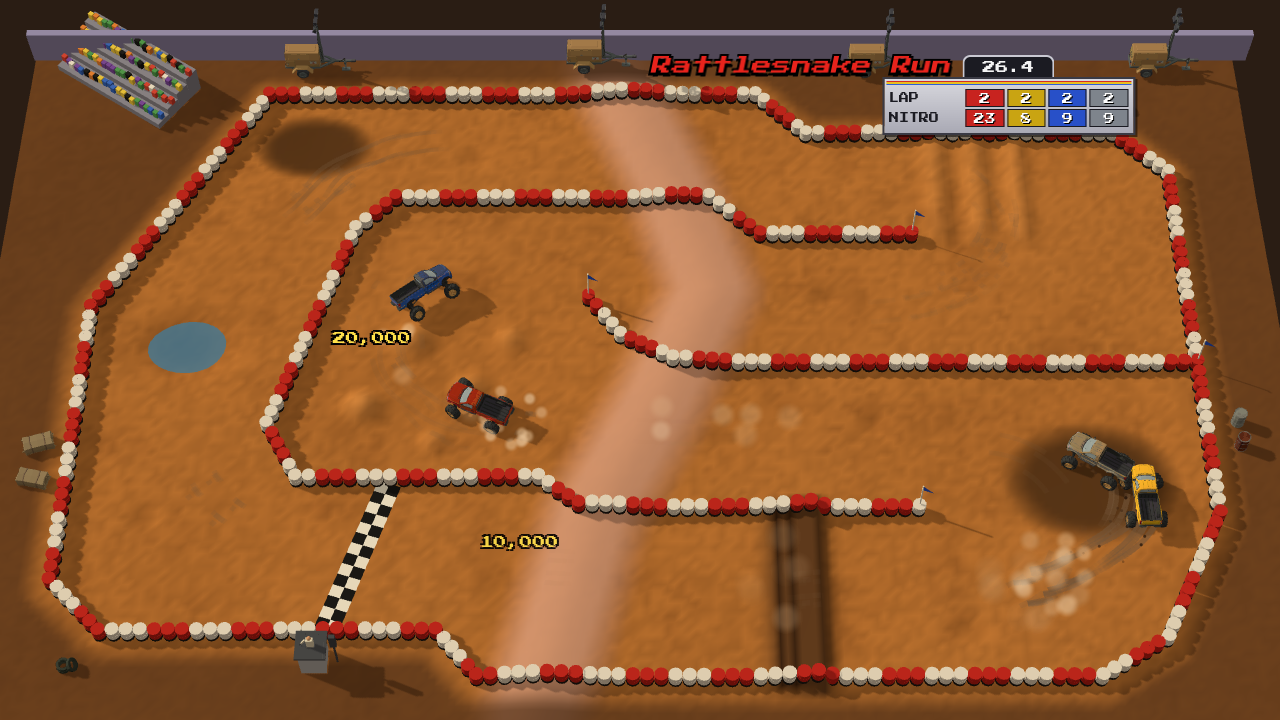
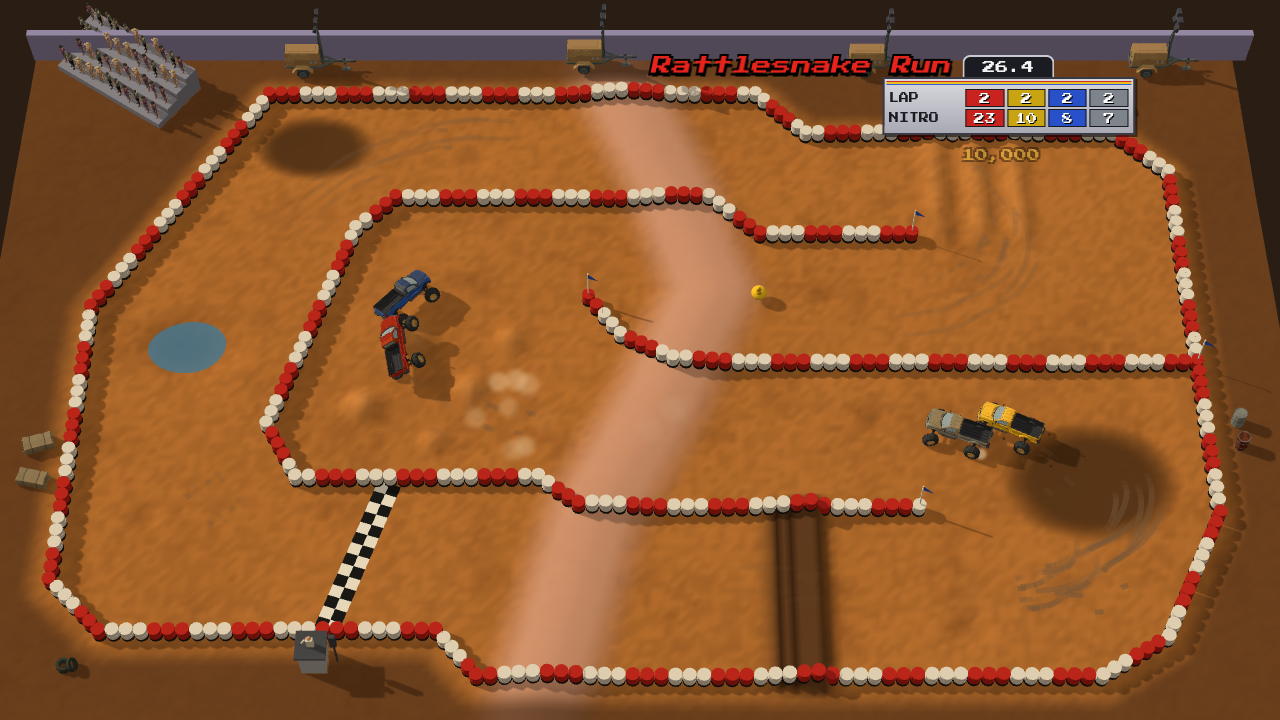
Docs: podium, crowd, DOS look (DESIGN, README screenshots, CLAUDE.md); OR4 ticks; FEEDBACK OR-FB-008..013

diff --git a/src/race/crowd.ts b/src/race/crowd.ts
@@ -1,6 +1,6 @@
 // The grandstand crowd: the generator's Synty fans (ssg.models.json `fan_a/b/c`) in place of build.ts's coloured
 // boxes. A few fans are real skinned characters with their own mixer (idle, then a wave when the crowd cheers);
-// everyone else is a pose baked once into static geometry (race/characters.ts bakePose) and drawn as one
+// everyone else is a pose baked once into static geometry (race/characters.ts bakePose, OR-FB-012) and drawn as one
 // InstancedMesh per fan model per pose, so ~40 fans cost a handful of draw calls and no skeletons.
 // The crowd cheers on the event bus: a truck finishing, or a big jump landing.
 // Without models nothing changes and the boxes stay.

diff --git a/src/race/characters.ts b/src/race/characters.ts
@@ -101,6 +101,7 @@ const _v = new THREE.Vector3();
 const _n = new THREE.Vector3();
 
 /**
+ * OR-FB-012: the generator exports only skinned characters, so the game freezes poses itself.
  * Freeze `clip` at `time` (s) into static geometry in the model's own frame (feet at y = 0, facing +Z): the CPU
  * skins every vertex once. A static pose draws as a plain (instanced) mesh, with no skeleton per copy.
  */

diff --git a/docs/DESIGN.md b/docs/DESIGN.md
@@ -22,6 +22,7 @@ src/
     camera.ts        the fixed whole-track camera (CAMERA: pitch, fov, margins) and fitFixedCamera()
     loop.ts          fixed 60 Hz physics step with an accumulator (max 6 steps/frame), render per rAF, advance()
     input.ts         keyboard + Gamepad API → TruckInput; confirm (Enter / pad A) for menus
+    retro.ts         the DOS look (F2): low-res render target, palette + dither, scanlines; or.settings
   physics/
     world.ts         RAPIER.init(), World (gravity -14), PHYSICS_DT, collision GROUPs
     heightfield.ts   height grid → Rapier heightfield collider; wall polylines → cuboid colliders (an invisible fence)
@@ -43,6 +44,8 @@ src/
     events.ts        the game event bus (audio subscribes here)
     models.ts        public/models/models.json (ssg model apply) when present: modelIndex(), loadModel(name)
     truck-view.ts    the truck's look: the generator's GLB with manifest-driven wheels, or the box placeholder
+    characters.ts    the generator's Synty characters: Character (clone + mixer, play by clip), bakePose()
+    crowd.ts         the grandstand fans: a few skinned, the rest baked poses instanced; cheers on the event bus
   fx/
     particles.ts     pooled instanced billboards: dust, water splash, mud spray, nitro smoke
     skids.ts         skid-mark decals: a ring buffer of instanced ground segments that fade out
@@ -50,6 +53,8 @@ src/
     pixel.ts         the bundled pixel font (Press Start 2P) and a style helper
     race-hud.ts      the one-panel race HUD, the track name, centre banners, floating pickup texts
     results.ts       the podium / results screen (season: FREE RACE! / CREDIT LOST, credits, the shop prompt)
+    podium-view.ts   the results screen's 3D podium: its own small canvas, drivers, trucks, trophy
+    toast.ts         a short message at the top (F2's DOS look setting)
     debug.ts         F3 overlay
     screens/         full-screen menus: common (DOS look, panels, icons), title, hints, register (+ get ready),
                      shop, continue (+ game over), track-thumb (a 2D map of a track from its JSON)
@@ -63,6 +68,8 @@ src/
 - `test`: the player's truck alone on `?track=` (default `test`, the proving ground). R resets.
 - `race`: a 4-truck race on `?track=` (default `rattlesnake`). `&reverse` drives the reversed variant, `&cpus=0..3`
   races fewer CPU trucks (tuning), `&autopilot` lets the AI drive the player's truck (tests, demos).
+- `podium`: the results screen with made-up results and no race behind it, for the podium screenshot
+  (`&order=2,0,1,3`: slots from 1st to 4th). `load-check.mjs … podium` saves `test-results/podium.png`.
 
 `?debug` opens the F3 overlay. Every race scene runs a little physics when it's built (0.5 s; 1 s on the proving
 ground) so the trucks settle on their springs; the loop starts and `window.__or.ready` is set once the first scene
@@ -337,6 +344,7 @@ tracks lane) when it exists; until then every registered track with a racing lin
 which then alternates forward / reversed). A track without a `reverse` variant is driven forwards.
 
 ### Save (`localStorage`)
+- `or.settings`: `{ dos: boolean, palette: 256 | 16 | 0 }`, the DOS look (engine/retro.ts); default off.
 - `or.season`: `{ v: 1, race, players: [{ initials, colour, cash, credits, levels, nitros }], cpus: [{ colour,
   cash, levels, nitros }], last: { track, outcomes, places } }`, written after every race, purchase and continue;
   deleted on game over. CONTINUE SEASON on the title reopens it at the shop (or at CONTINUE? with no credits).
@@ -364,6 +372,9 @@ afterwards: `__HAS_MODELS__` (vite.config.ts) is decided at server start, so a m
 | `hay_bale` | War `SM_Prop_Hay_Bale_01` | kind `hay_bale` |
 | `tire`, `cone`, `barrier` | Apocalypse `SM_Prop_Tire_01`, Palm City `SM_Prop_Cone_01`, `SM_Prop_Barrier_01` | kinds `tyre`, `cone`, `barrier`, ready for new tracks |
 | `floodlight` | Apocalypse `SM_Prop_Floodlights_01` (a light-mast trailer) | stadium dressing along the back wall |
+| `driver_red/yellow/blue/grey` | City Characters `SK_Character_Biker`, BattleRoyale `Character_RedneckMale_01`, Apocalypse `SK_Chr_Mechanic_Female_01`, City Characters `SK_Character_Roadworker` | podium drivers; clips idle, victory, three waves, slumped (see Presentation) |
+| `fan_a/b/c` | City Characters `SK_Character_SummerGirl`, `SK_Character_Jock`, `SK_Character_HipsterGuy` | grandstand crowd; clips idle and two waves |
+| `trophy` | Icons `SM_Icon_Trophy_01` | the winner's cup on the podium |
 
 Props default to 256 px WebP textures (Synty atlases are flat colour swatches; 256 px looks the same at the race
 camera), trucks 1024 px WebP. Tried and dropped: billboards (their sign art does not come through, OR-FB-005), a
@@ -404,6 +415,67 @@ Each truck is 16.7k triangles in 14 meshes (doors, glass, wheels, lift kit); pro
 per model however many are placed. SwiftShader is CPU-bound and runs ~5 fps either way (the checks use
 `advance()`); on a real GPU the scene is well inside budget.
 
-**Bundle**: `dist/` is 11 MB: the JS bundle 5.2 MB (1.9 MB gzipped; mostly Rapier's WASM inlined) and
+**Bundle** (before the OR4 characters: `dist/` is now 15 MB with 9.2 MB of models, the 7 characters + trophy
+adding 3.5 MB): `dist/` was 11 MB: the JS bundle 5.2 MB (1.9 MB gzipped; mostly Rapier's WASM inlined) and
 `dist/models/` 5.9 MB, of which the four trucks are 4 × 1.37 MB (0.66 MB gzipped each, the same geometry four
 times, OR-FB-006) and the nine props 0.7 MB. With the default PNG textures the models were 19.6 MB (OR-FB-004).
+
+## Presentation (OR4)
+
+### Podium (`ui/podium-view.ts`)
+With models, the results screen's flat pixel drivers become a 3D scene in a 922 × 300 canvas between the times box
+and the plates. It has its own `WebGLRenderer` (one context, made on first use and kept; `alpha` so the screen's
+checker shows round a disc of arena dirt) and its own `requestAnimationFrame` loop while the screen is up. Three
+steps (gold, silver, bronze; the number drawn on a canvas texture with the face's aspect) stand in plate order
+2nd, 1st, 3rd, with 4th on the ground to the right, 3.6 m apart, and the camera's fov is set from the canvas aspect
+so the four columns land over the four plates. Each driver stands in front of their truck (the same TruckView,
+parked at `TruckView.groundLift`, turned a little), both at `TRUCK_LOOK`.
+
+| place | clip | |
+|---|---|---|
+| 1st | `MartialArts_Victory` once, then `POLY_IDL_Wave_Double_Loop` | holds the trophy (`trophy`, `SM_Icon_Trophy_01` × 1.7) in `hand_r`, kept upright |
+| 2nd | `POLY_IDL_Wave_Large_Loop` | |
+| 3rd | `POLY_IDL_Wave_Small_Loop` | (no clap clip, OR-FB-009) |
+| 4th | `POLY_IDL_Posture_Slumped_Loop` | |
+
+Drivers by truck colour (`driver_<colour>` in ssg.models.json): red `SK_Character_Biker` (City Characters),
+yellow `Character_RedneckMale_01` (BattleRoyale), blue `SK_Chr_Mechanic_Female_01` (Apocalypse), grey
+`SK_Character_Roadworker` (City Characters, hi-vis). Every driver carries all six clips (any of them can finish
+anywhere), 0.5–0.7 MB each. `main.ts` preloads them after boot. The trophy follows the hand bone's world
+position rather than being parented to it, so it never takes the bone's axes. `window.__or.podium()` gives
+`stop()`, `tick(dt)` (step the clips by hand for frame captures) and `info` (draw calls, triangles).
+
+### Crowd (`race/crowd.ts`)
+build.ts names its grandstand group `grandstand` and its box crowd `crowd` (the hook); the Session's `Crowd`
+hides the boxes once the fans have loaded and stands a fan on every other box spot (44 on the four benches).
+Three fan models (`fan_a/b/c`: City Characters SummerGirl, Jock, HipsterGuy with `POLY_IDL_Base`,
+`POLY_IDL_Wave_Double_Loop`, `POLY_IDL_Wave_Large_Loop`) at `FAN_LOOK = 1.05`:
+- 6 fans along the front rows are skinned `Character`s with their own mixer (idle; when cheering a two-arm or a
+  large wave, cross-faded).
+- The other 38 are baked poses (`bakePose`, OR-FB-012): each fan model is posed with a mixer three times (idle,
+  two frames of the two-arm wave) and its skinned vertices are transformed once on the CPU into a static mesh. One
+  InstancedMesh per fan model per pose; while cheering, each fan flips between the two wave frames at its own
+  phase (~4 Hz) and hops a little, and the matrices are re-packed so each mesh draws only the fans in its pose.
+- Cheers: `finish` (any truck, 4 s) and `land` with `airTime ≥ 0.5 s` (2.5 s), from the event bus; a new cheer
+  extends the current one. `window.__or.crowd()` gives `cheer(s)`, `cheering`, `drawCalls()`, `ready`.
+- The baked geometry is cached for the page; RaceScene.dispose detaches the crowd before it frees the scene.
+
+**Cost** (Rattlesnake race, 4 trucks, SwiftShader 1280×720, both passes: main + shadow map):
+
+| | draw calls | triangles | fps (SwiftShader) |
+|---|---|---|---|
+| box crowd (88 boxes) | 204 | 366k | 4 |
+| fans, idle (3 instanced + 6 skinned per pass) | 220 | 562k | 4 |
+| fans, cheering (6 instanced + 6 skinned per pass) | 226 | 562k | 4 |
+
+The fans add 16–22 draw calls and ~98k triangles per pass (Synty characters are ~1.8–2.6k triangles and
+`simplify` does not reduce them, OR-FB-011). SwiftShader is CPU-bound at ~4–5 fps either way.
+
+### DOS look (`engine/retro.ts`)
+Off by default. F2 cycles off → 256 colours → 16 colours → off (a toast says which); the title menu has a
+`DOS LOOK:` line doing the same. Saved in `or.settings`. When on, `RaceScene.render` draws through `retro.render`:
+the scene goes into a 200-row HalfFloat render target (width from the window's aspect, ~356 at 16:9), then a
+full-screen quad samples it with nearest filtering, converts to sRGB, quantises (256: 3-3-2 bits per channel with
+4×4 Bayer dither; 16: the nearest EGA colour, luma-weighted, with a lighter dither), darkens the lower third of each
+low-res row as a scanline and adds a slight vignette. The DOM HUD stays sharp, like the original's text. The podium
+canvas follows the setting at a third of its resolution with `image-rendering: pixelated`.

diff --git a/FEEDBACK.md b/FEEDBACK.md
@@ -113,3 +113,81 @@ Status: `open` → `triaged (TODO: …)` → `fixed (<commit>)` → `verified` (
 - Suggested change: a size column (metres) in `ssg assets` / `search_assets`, and a modular-piece flag or a link to
   the assembled prefab when the pack has one.
 - Status: triaged (TODO: OR-FB-007)
+
+## OR-FB-008 · `ssg model preview` fails when the web dev server is down, though the API serves the page itself
+- Severity: workaround        Milestone: OR4
+- Tried: `ssg model preview POLYGON_BattleRoyale/Character_RedneckMale_01 --frames 4 --size 200 --out x.png` (and
+  three more characters), 2026-10-21, API on 5181.
+- Wanted: a contact sheet of each driver candidate before exporting it.
+- Got: `ssg: page.goto: net::ERR_CONNECTION_REFUSED at http://localhost:5180/model-preview.html` and the raw
+  Playwright call log, every time. `/api/health` says `webUrl: http://localhost:5180` (nothing listening) and
+  `servesWeb: true`, and `http://localhost:5181/model-preview.html` answers 200: the page was there all along.
+- Workaround: the game's own `?scene=podium` debug scene became the preview: the drivers were judged from its
+  screenshots (and a frame-by-frame capture of the clips through `window.__or.podium().tick(dt)`).
+- Suggested change: when the server serves the web build itself, open the preview page from its own origin (or
+  fall back to it when `SSG_WEB_URL` does not answer), and turn a connection error into one line that names the URL
+  and the setting.
+- Status: open
+
+## OR-FB-009 · No clap, cheer, celebrate, defeat or seated clips
+- Severity: workaround        Milestone: OR4
+- Tried: `ssg animations victory|cheer|clap|celebrate|defeat|sad|sit|seat|drive|driving|chair`.
+- Wanted: a podium (winner celebrates, 2nd and 3rd clap, 4th dejected), a cheering crowd, and later a driver seated
+  in the cab and a seated crowd on the benches.
+- Got: `MartialArts_Victory` (an upload) is the only victory clip; nothing for clap, cheer, celebrate, defeat, sad,
+  sit, seat or drive (`sit` only finds `Crouch_ToStand`). The Idles pack's waves stand in.
+- Workaround: winner `MartialArts_Victory` then `POLY_IDL_Wave_Double_Loop` (both arms up, with the trophy), 2nd
+  `POLY_IDL_Wave_Large_Loop`, 3rd `POLY_IDL_Wave_Small_Loop` (waves instead of claps), 4th
+  `POLY_IDL_Posture_Slumped_Loop`; the crowd cheers with the two-arm and large waves and stands instead of sitting
+  (`ssg.models.json`, `race/characters.ts` CLIPS). No driver is drawn in the cabs.
+- Suggested change: an animation pack (or Mixamo uploads) with clap, cheer/fist-pump, dejected, a seated idle and a
+  seated driving pose; and synonyms in the clip search (cheer → wave/victory, sad → slumped/disappointed).
+- Status: open
+
+## OR-FB-010 · A clip name is ambiguous: Masculine and Feminine (and Polygon/Sidekick) variants share it
+- Severity: polish        Milestone: OR4
+- Tried: `"clips": ["POLY_IDL_Wave_Large_Loop", …]` on a male (`SK_Character_Biker`) and a female
+  (`SK_Chr_Mechanic_Female_01`) driver.
+- Wanted: the feminine variant on the female mechanic, or at least to know which one was merged.
+- Got: `ssg animations wave` lists `POLY_IDL_Wave_Large_Loop` twice (ids 491/656 Feminine/Masculine on Sidekick,
+  and again on Polygon). The spec takes only a name, `model info` lists each name once in `clipsAvailable`, and the
+  manifest's `clips` entry says nothing about which variant (gender, rig, id) it is.
+- Workaround: none (both look acceptable at podium size).
+- Suggested change: pick the variant that matches the character's gender by default, accept an id or a qualifier
+  (`POLY_IDL_Wave_Large_Loop@Feminine`), and put `{ id, gender, rig, pack }` in the manifest's clip entry.
+- Status: open
+
+## OR-FB-011 · `simplify` does nothing on a skinned character (and says nothing)
+- Severity: polish        Milestone: OR4
+- Tried: `"simplify": 0.5` on the three crowd fans (`SK_Character_SummerGirl`, `_Jock`, `_HipsterGuy`).
+- Wanted: half the triangles for 44 fans in the grandstand.
+- Got: 2304 → 2274, 1814 → 1794, 2636 → 2612 triangles; new export ids, no `warnings`.
+- Workaround: the fans stay at full detail (the crowd is ~98k triangles per pass); the spec does not set `simplify`.
+- Suggested change: simplify skinned meshes too (keeping the skin weights), or say in `warnings` that it was skipped.
+- Status: open
+
+## OR-FB-012 · Crowds need static posed meshes; the game skins them on the CPU itself
+- Severity: workaround        Milestone: OR4
+- Tried: a grandstand of ~44 Synty fans: 44 skinned characters would be 44 skeletons, 44 mixers and 44 draw calls.
+- Wanted: an export of a character frozen in a clip's pose, as a plain (unskinned) mesh, ready for an
+  InstancedMesh: e.g. spec `pose: { clip: "POLY_IDL_Wave_Double_Loop", time: 0.12 }` or `--pose clip@t`, ideally
+  several poses in one GLB as separate meshes.
+- Got: only skinned exports.
+- Workaround: `race/characters.ts bakePose()` loads the skinned GLB, poses it with an AnimationMixer and applies
+  the bone transforms to every vertex once (tagged `// OR-FB-012`); `race/crowd.ts` draws one InstancedMesh per fan
+  model per pose (idle, two cheer frames) plus 6 skinned fans.
+- Suggested change: the `pose` spec field above; and character manifests could carry a posed bound too (the
+  `bounds` are the T-pose: 2.05 × 1.86 × 0.37 m for a person, which is no use for spacing a crowd).
+- Status: open
+
+## OR-FB-013 · No 3D trophy: the trophy props are flat icons
+- Severity: polish        Milestone: OR4
+- Tried: `ssg assets trophy|cup|award|goblet|chalice|medal|prize`.
+- Wanted: a winner's cup for the podium.
+- Got: `POLYGON_Icons/SM_Icon_Trophy_01..04`, 0.34 × 0.40 × 0.08 m: flat, 8 cm deep icon shapes; otherwise drinking
+  cups and fantasy goblets.
+- Workaround: `SM_Icon_Trophy_01` at 1.7× in the winner's right hand (`ui/podium-view.ts`); from the podium camera
+  the flatness does not show.
+- Suggested change: a pack gap note (a sports/stadium pack with trophies); `ssg assets` could tag icon-pack props
+  as `icon` so a search can tell them from full props.
+- Status: open

diff --git a/TODO.md b/TODO.md
@@ -31,7 +31,7 @@ generator's TODO ("3D models + Off Road", "Inbox: from Off Road").
 - [x] Keyboard (arrows/WASD, Space/Shift) + Gamepad API; F3 debug overlay (speed, wheel contacts, suspension)
 - [x] `window.__or` test handle; `scripts/drive-check.mjs` (throttle 3 s moves > 15 m upright, right turn, nitro
       jump); `scripts/feel-probe.mjs` (0→top, braking, turn rate, air time)
-- [ ] The player truck exported through `ssg model apply` (lifted pickup, 4 tints, origin axle-centre); wheels
+- [x] The player truck exported through `ssg model apply` (lifted pickup, 4 tints, origin axle-centre); wheels
       driven from the manifest `wheels` block (blocked on the generator's M1/M2, OR-FB-001)
 - [x] Feel tuned against the reference footage (research/ORIGINAL.md): top speed vs. track size, turn rate, jump hang time,
       bounce over whoops, wall bumps (laps 16–17 s on track 1; table in docs/DESIGN.md; `scripts/lap-probe.mjs`)
@@ -68,10 +68,13 @@ generator's TODO ("3D models + Off Road", "Inbox: from Off Road").
 ## OR4 · Presentation
 - [x] Title / attract mode with a demo race (our DOS-style logo, the demo race behind it, hints in the attract loop,
       racing hints, driver sign-up with initials + colour, get ready; title is the default scene)
-- [ ] Podium with animated drivers (a multi-clip character GLB from the generator)
-- [ ] A crowd in the stands; our own chiptune-style music; engine, skid and crash sounds
+- [x] Podium with animated drivers (a multi-clip character GLB from the generator): a 3D podium on the results
+      screen, `driver_<colour>` Synty drivers (victory / waves / slumped), their trucks, a trophy; `?scene=podium`
+- [x] A crowd in the stands (Synty fans: 6 skinned + baked poses instanced, cheering on finishes and big jumps);
+      our own chiptune-style music; engine, skid and crash sounds (audio lane)
 - [ ] Local 2-player (keyboard + pad)
-- [ ] Settings screen with a CRT / pixel option for the DOS look
+- [x] A CRT / pixel option for the DOS look: F2 or the title menu (200 lines, 256/16 colours, scanlines), saved in
+      `or.settings`; a full settings screen (volumes) is still open
 
 ## OR5 · Polish and story
 - [ ] Performance passes (instancing, shadow budget), gamepad polish

diff --git a/CLAUDE.md b/CLAUDE.md
@@ -30,11 +30,13 @@ plan is `~/.claude/plans/distributed-twirling-lark.md`. Milestones are in `TODO.
   (standalone scenes only; a season race can't be restarted). Menus: arrows/WASD, Enter/Space, Esc.
 - Gamepad: RT or A = gas, LT or X = brake/reverse, left stick or d-pad = steer, B / Y / RB = nitro, Back = reset.
 - F3 = debug overlay (speed, wheel contacts, suspension, air time, fps). `?debug` opens it on load.
+- F2 = the DOS look (off → 256 colours → 16 colours; also on the title menu), saved in localStorage `or.settings`.
 
 ## Scenes and URL params
 - No `?scene` or `?scene=title` (default): the title / attract screen and the season flow (`src/game/flow.ts`;
   screens in `src/ui/screens/`). `?scene=shop` opens the Speed Shop straight away (the saved season, or a fresh one:
   `&cash=`, `&race=`, `&colour=`).
+- `?scene=podium`: the results screen's 3D podium with made-up results (`&order=2,0,1,3`), for screenshots.
 - `?scene=test`: the player's truck alone on the test track. `?track=<id>` picks a track JSON.
 - `?scene=race&track=<id>` (default `rattlesnake`): a 4-truck, 4-lap race. `&reverse` = the reversed variant,
   `&cpus=0..3` fewer CPU trucks, `&autopilot` = the AI drives the player's truck.
@@ -46,7 +48,8 @@ plan is `~/.claude/plans/distributed-twirling-lark.md`. Milestones are in `TODO.
 - `npm run dev` (port 5199), then
   - `node scripts/load-check.mjs http://localhost:5199 test`: no page/console errors, the heightfield matches the
     height grid, the truck sits on four wheels; writes `test-results/test.png`.
-  - `node scripts/load-check.mjs http://localhost:5199 race`: the same for the race scene (`title`, `shop` too).
+  - `node scripts/load-check.mjs http://localhost:5199 race`: the same for the race scene (`title`, `shop`,
+    `podium` too).
   - `node scripts/drive-check.mjs http://localhost:5199`: throttle 3 s (moves > 15 m, upright), a right turn, a
     nitro jump off the ramp; writes `test-results/drive-*.png`.
   - `node scripts/race-check.mjs http://localhost:5199 [track] [--reverse]`: a full 4-lap race on autopilot; all

diff --git a/README.md b/README.md
@@ -16,11 +16,16 @@ cash and credits (beat every CPU truck for a free race; lose to one and it costs
 races (nitro, acceleration, tires, shocks, top speed) and a track rotation that adds tracks and flips their
 direction as the season goes on. The trucks are lifted Synty pickups in four paints and the trackside props (tyre
 piles, barrels, hay bales, floodlight trailers) are Synty models too, all exported as GLBs by `npm run assets`.
+After each race the podium is a little 3D scene: the top three drivers (Synty characters) stand on the steps in
+front of their trucks, the winner celebrates and raises the trophy, 2nd and 3rd wave and 4th slumps. A crowd of
+Synty fans fills the grandstand and cheers at the finish and at big jumps. F2 (or the title menu) switches on a
+DOS look: 200 lines, a 256- or 16-colour palette and scanlines.
 
 ![The title screen over the demo race](docs/screenshots/title.png)
 ![The Speed Shop](docs/screenshots/shop.png)
 
 ![The results podium](docs/screenshots/race-results.png)
+![The DOS look (F2), 256 colours](docs/screenshots/dos-look.png)
 
 ## Controls
 
@@ -33,6 +38,7 @@ piles, barrels, hay bales, floodlight trailers) are Synty models too, all export
 | Reset (standalone race: back to Get Ready!) | R | Back |
 | Menus: move / confirm / back | Arrows or WASD / Enter or Space / Esc | D-pad or stick / A or Start / B |
 | Race again (standalone race results) | Enter | A or Start |
+| DOS look (off, 256, 16 colours) | F2 | |
 | Debug overlay | F3 | |
 
 ## Develop
